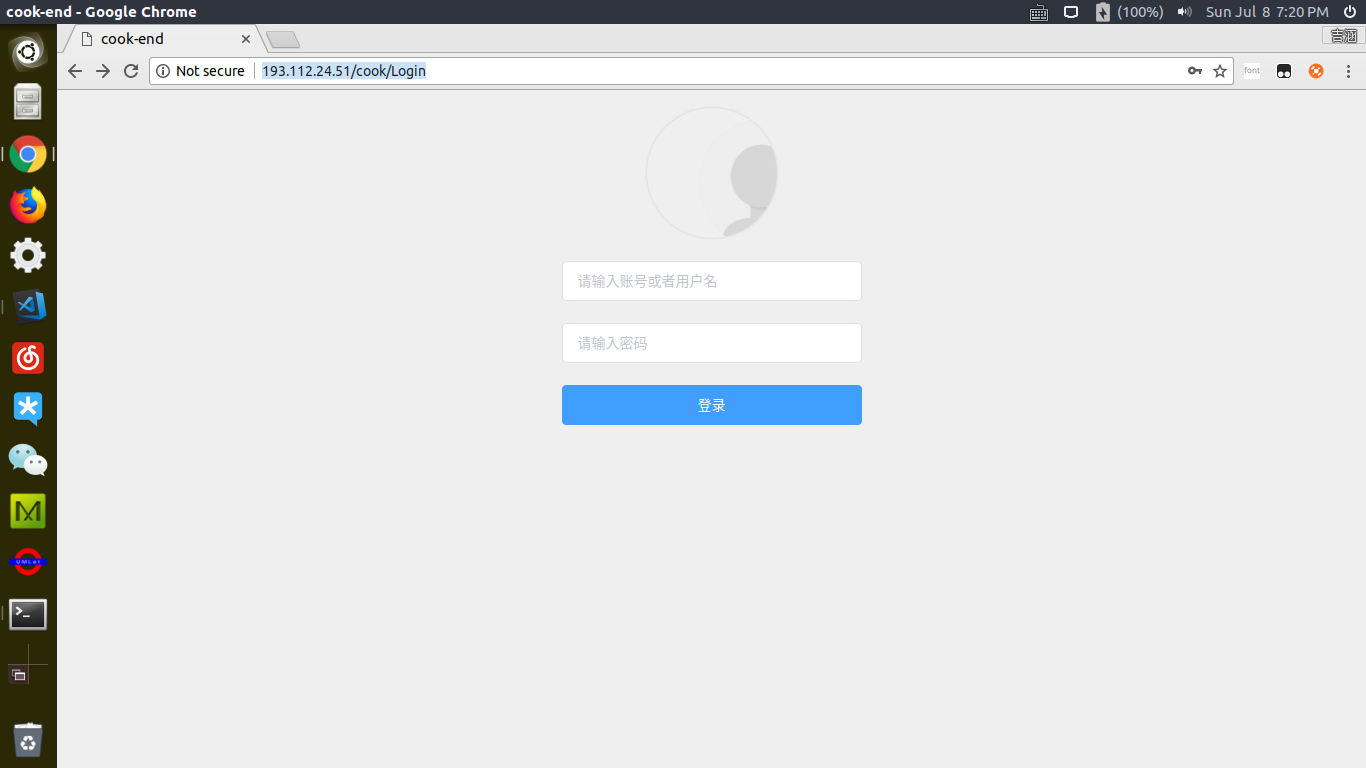
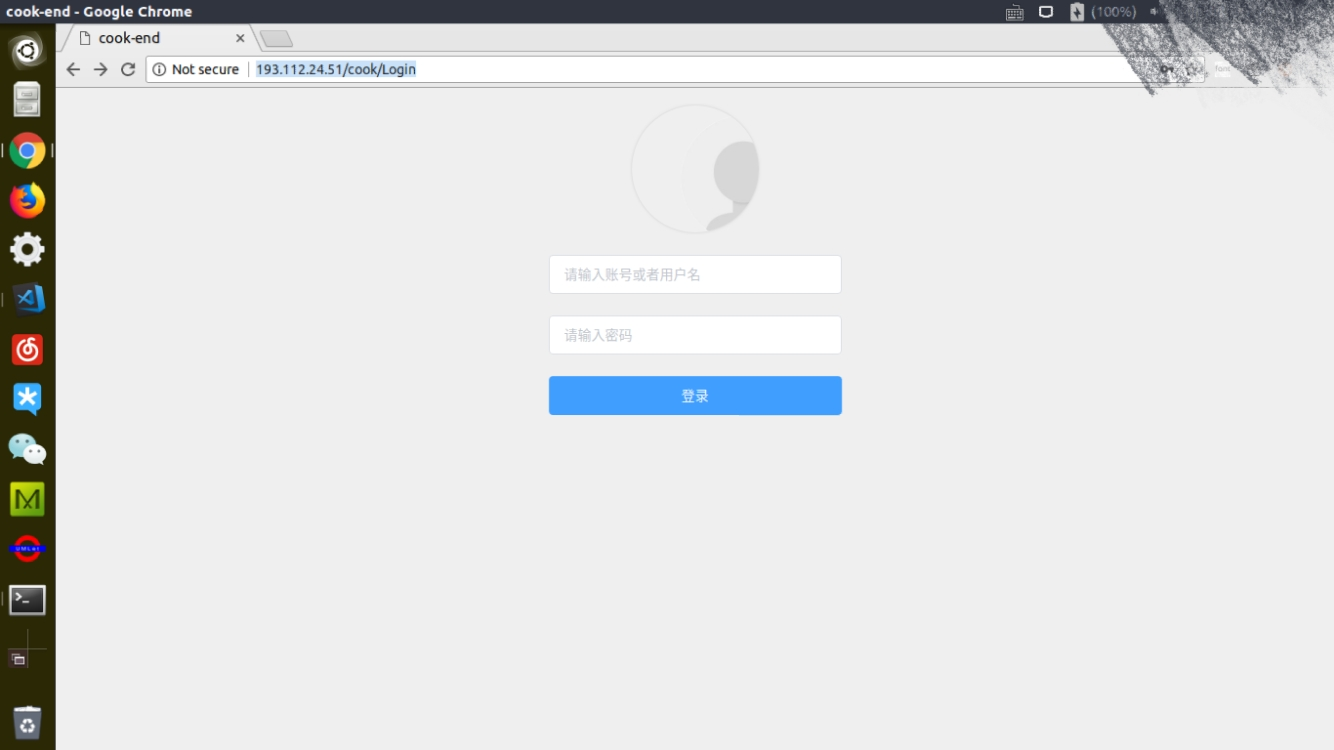
用户手册

diff --git a/docs/SDP/用户手册.md b/docs/SDP/用户手册.md
@@ -27,7 +27,7 @@
 
 在历史订单界面可查看到历史订单详情、状态等信息，且可以对订单进行评价
 
-### 厨师客户端
+### 厨师客户端（以下图片右上角为屏蔽个人隐私）
 #### 登录
 厨师访问以下网址登录厨师管理平台\
 http://193.112.24.51/cook/Login \
@@ -49,3 +49,44 @@ http://193.112.24.51/cook/Login \
 
 ### 管理者平台
 用于给管理者添加菜品和发布厨师账号的平台
+#### 登录
+访问 http://193.112.24.51:9000/admin/ 登录
+
+![admin](../image/handbook/admin.png)
+
+管理者的账号密码可由后台创建
+#### 添加厨师账户/管理菜品/管理桌子等功能
+管理者可以管理当前店铺的桌子，管理菜品，管理厨师账户等等
+
+以下为管理厨师账户，点击下方的用户的添加/修改按钮即可添加/修改厨师用户，直接点击可以查看厨师用户信息
+
+![User](../image/handbook/User.png)
+
+以下为管理菜品，Categorys为菜的种类（例如川菜、粤菜之类的），Dishess为具体的菜，操作方法同管理厨师账户
+
+![Dish](../image/handbook/Dish.png)
+
+以下为管理桌子，操作方法同上
+
+![Table](../image/handbook/Table.png)
+
+#### 操作细节
+
+以下以增加一道菜为例子,如下图所示，填写相应项目后保存即可
+
+![addDish](../image/handbook/addDish.png)
+
+增加菜品种类,如下图所示输入菜品种类然后保存即可
+
+![addCategory](../image/handbook/addCategory.png)
+
+增加桌子操作类似增加菜品
+
+以下为管理厨师账号\
+如下图所示输入相关信息后保存
+
+![addUser](../image/handbook/addUser.png)
+
+之后勾选职员状态即可
+
+![SelectCook](../image/handbook/SelectCook.png)
